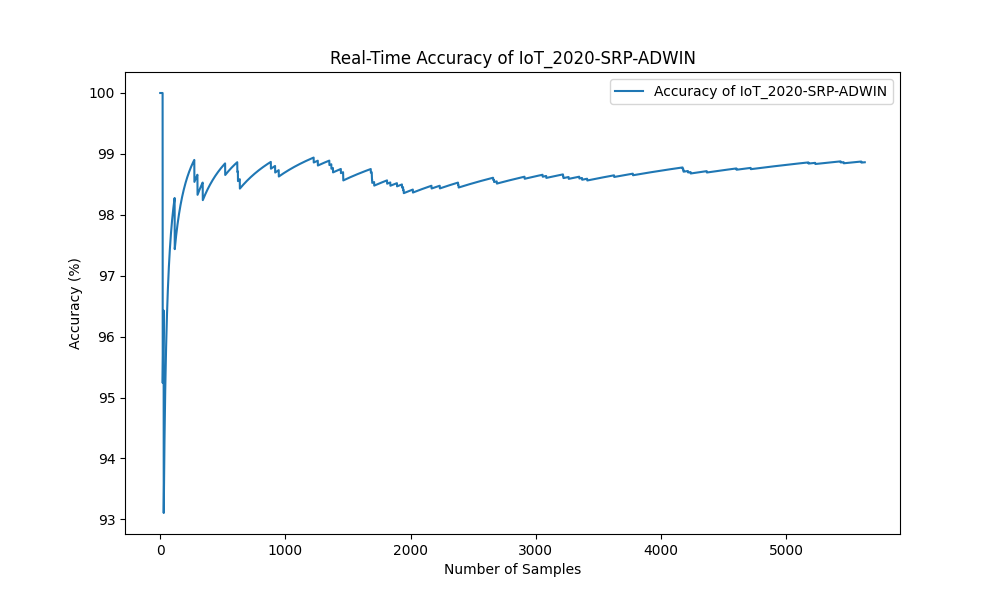
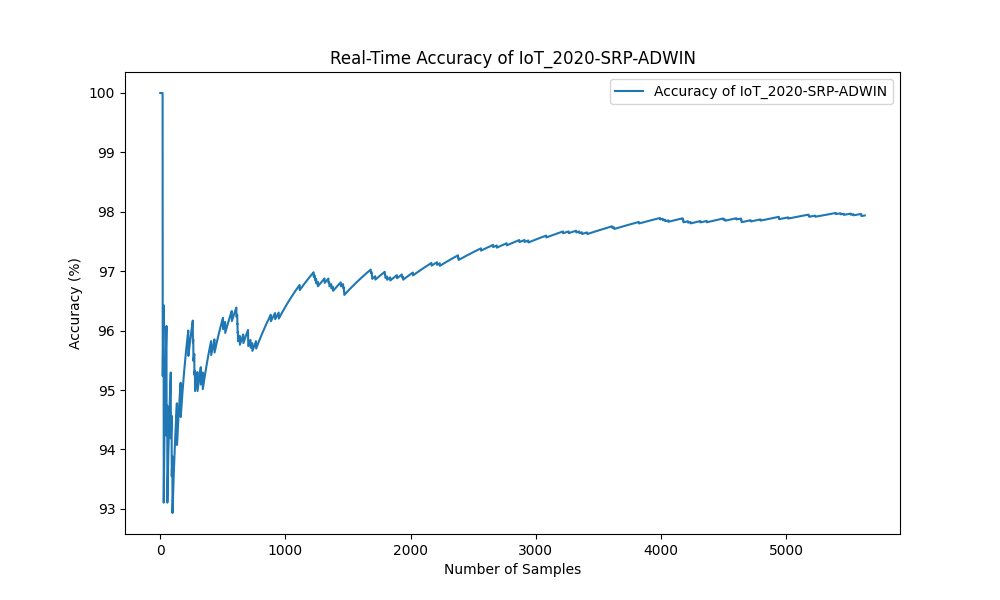
add models

diff --git a/PWPAE2.py b/PWPAE2.py
@@ -2,7 +2,7 @@ import pandas as pd
 import numpy as np
 import matplotlib.pyplot as plt
 from sklearn.model_selection import train_test_split
-from sklearn.metrics import classification_report,confusion_matrix,accuracy_score, precision_score, recall_score, f1_score
+from sklearn.metrics import accuracy_score, precision_score, recall_score, f1_score
 from river import metrics
 from river import stream
 from river import tree,ensemble,forest
@@ -218,14 +218,20 @@ def main():
     y = df['Label']
     X_train, X_test, y_train, y_test = train_test_split(X, y, train_size=0.1, test_size=0.9, shuffle=False, random_state=0)
 
+    print(dir(tree))
+    print(dir(ensemble))
     models = [
         AdaptiveModel(forest.adaptive_random_forest.ARFClassifier(n_models=3, drift_detector=ADWIN()), "IoT_2020-ARF-ADWIN"),
         AdaptiveModel(forest.adaptive_random_forest.ARFClassifier(n_models=3, drift_detector=DDM()), "IoT_2020-ARF-DDM"),
+        AdaptiveModel(forest.aggregated_mondrian_forest.AMFClassifier(n_estimators=10), "IoT_2020-AMF"),
+        AdaptiveModel(tree.ExtremelyFastDecisionTreeClassifier(), "IoT_2020-EFDT"),
+        AdaptiveModel(tree.HoeffdingAdaptiveTreeClassifier(), "IoT_2020-HAT"),
+        AdaptiveModel(tree.HoeffdingTreeClassifier(), "IoT_2020-HTC"),
+        AdaptiveModel(tree.SGTClassifier(), "IoT_2020-SGT"),
+        AdaptiveModel(ensemble.ADWINBaggingClassifier(model=tree.HoeffdingTreeClassifier(), n_models=3), "IoT_2020-LB-ADWIN-HT"),
+        AdaptiveModel(ensemble.LeveragingBaggingClassifier(model=tree.HoeffdingTreeClassifier(), n_models=3), "IoT_2020-LB-HTC"),
         AdaptiveModel(ensemble.SRPClassifier(n_models=3, drift_detector=ADWIN()), "IoT_2020-SRP-ADWIN"),
         AdaptiveModel(ensemble.SRPClassifier(n_models=3, drift_detector=DDM()), "IoT_2020-SRP-DDM"),
-        AdaptiveModel(tree.HoeffdingAdaptiveTreeClassifier(), "IoT_2020-EFDT"),
-        AdaptiveModel(tree.HoeffdingTreeClassifier(), "IoT_2020-HT"),
-        AdaptiveModel(ensemble.LeveragingBaggingClassifier(model=tree.HoeffdingTreeClassifier(), n_models=3), "IoT_2020-LB")
     ]
 
     for model in models:
